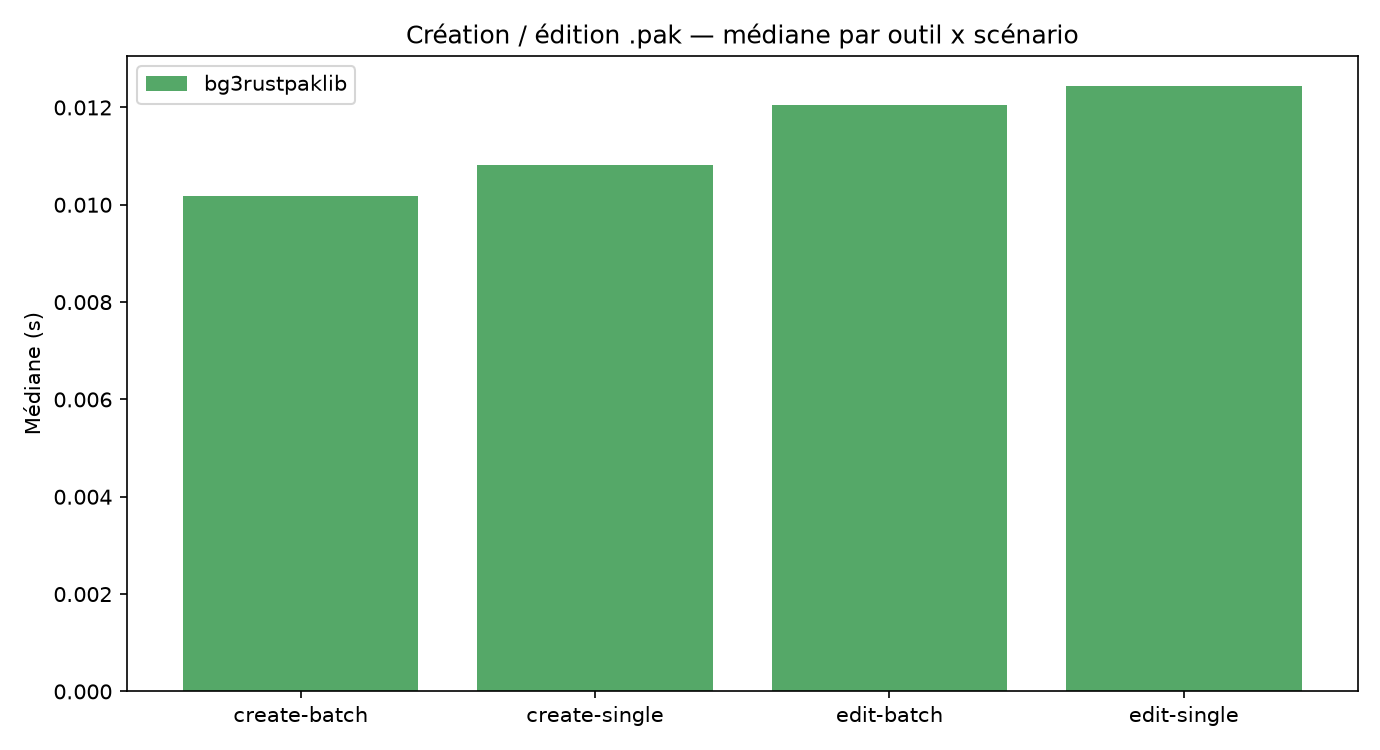
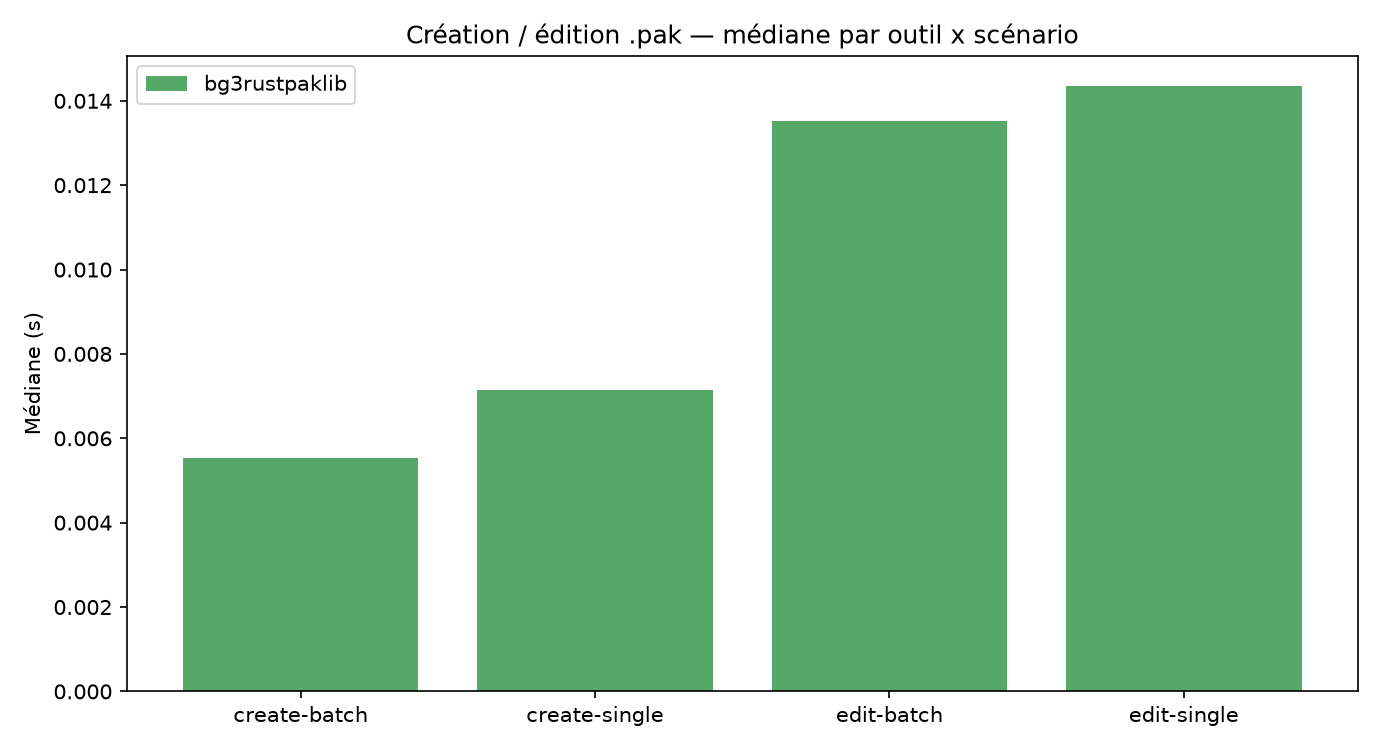
docs: rapport benchmark .pak avec mesures réelles + TODO.md à jour
Rapport régénéré contre les 48 vrais .pak du jeu (lecture) après le fix
de décompression d'archive solide (LowTex.pak) — 0/48 vraies erreurs,
annotation des 22 "erreurs" attendues (fichiers de continuation
multi-parties, pas un vrai échec). .claude/TODO.md documente l'incident
de coordination du jour (perte/récupération de commits de sous-module,
collision avec une session concurrente) et le détail du bug corrigé.

diff --git a/.claude/TODO.md b/.claude/TODO.md
@@ -15,13 +15,29 @@ pas, même si elle semble terminée.
 
 **EN COURS**
 
-- `feat/PakToolsBenchmark` (dépôt principal, worktree
-  `.claude/worktrees/agent-aa5dc47578d03919f`) — stratégie de benchmark
-  comparatif Divine.exe (LSLib) / bg3pythonpaklib / bg3rustpaklib (lecture
-  single/batch, création/édition/batch). Statut : implémentation terminée
-  et validée bout en bout (fixtures synthétiques, pas de vrai `.pak` du
-  jeu mesuré dans cette passe — décision explicite en cours de route),
-  prête à relire/merger par Elwingh. Détail en §22 ci-dessous.
+- `feat/PakToolsBenchmark` (dépôt principal + sous-modules
+  `Tools/bg3rustpaklib`/`Tools/bg3pythonpaklib`, même nom de branche dans
+  chacun ; **le worktree `.claude/worktrees/agent-aa5dc47578d03919f` a été
+  supprimé** — ne plus s'y référer) — stratégie de benchmark comparatif
+  Divine.exe (LSLib) / bg3pythonpaklib / bg3rustpaklib (lecture
+  single/batch, création/édition/batch). Statut : implémentation terminée,
+  validée sur fixtures synthétiques (création/édition) **et sur les vrais
+  `.pak` du jeu** (lecture, 48 fichiers réels) — un vrai bug de
+  décompression d'archive solide trouvé et corrigé au passage (`LowTex.pak`,
+  détail en §22 ci-dessous). Prête à relire/merger par Elwingh. **Incident
+  de coordination du 2026-09-15** : le worktree de l'agent a été supprimé
+  par erreur (`git worktree remove --force`) alors qu'il contenait deux
+  commits de sous-module jamais poussés — contenu restauré depuis la
+  transcription de l'agent, revérifié (compilation + tests), recommité.
+  Une session concurrente (`bg3tools-cb`) a aussi basculé le dépôt de
+  travail partagé sur sa propre branche pendant la récupération, faisant
+  atterrir un commit sur la mauvaise branche — récupéré par cherry-pick
+  isolé (worktree temporaire dédié) sans toucher au travail de l'autre
+  session. Aucune perte finale, mais working dir principal partagé entre
+  sessions concurrentes à traiter avec prudence à l'avenir (`git status`
+  systématique avant tout `checkout`/`worktree remove`, jamais de
+  `--force` sans avoir vérifié l'absence de sous-modules indépendants
+  dans le worktree ciblé).
 - Console BG3SE distante (§11b/11c) — trois branches liées, aucune mergée :
   - `feat/RemoteConsoleTCPBridge` (sous-module `ElwinghL/bg3se`) — pont TCP
     `RemoteConsole` réellement implémenté (pas juste conçu) : **compile sans
@@ -440,6 +456,38 @@ sacrifié pour y arriver, tant pis.
   mis à jour avec un pointeur vers le nouveau harnais, sans chiffres
   fabriqués. Statut : branche prête à relire/merger par Elwingh (pas
   mergée depuis ce sous-agent, conformément à la consigne de coordination).
+- ~~**22b.** Lecture mesurée sur les vrais `.pak` du jeu (pas seulement
+  synthétiques) et bug de décompression d'archive solide trouvé au
+  passage~~ — fait : en régénérant `rust-native_report.json` contre les 48
+  vrais `.pak` de `Data/` (lecture seule, rien écrit), `LowTex.pak`
+  (archive solide réelle du jeu de base) échouait avec `Invalid LZ4 block
+  size: 2147549184 > ...`. Cause racine, deux bugs distincts dans
+  `Tools/bg3rustpaklib/src/package/reader.rs` :
+  1. `decompress_solid_archive()` découpait le frame LZ4 7 octets trop
+     tard (à l'offset du premier fichier, qui pointe déjà après l'en-tête
+     LZ4 minimal de 7 octets, au lieu du vrai début du frame) — le magic
+     number LZ4 était donc absent de la tranche passée au décodeur, qui
+     retombait sur un chemin heuristique "legacy" produisant des tailles
+     de bloc aberrantes.
+  2. Les offsets décompressés cumulés étaient assignés dans l'ordre de la
+     table de fichiers, pas dans l'ordre de packing physique
+     (`entry.offset` croissant) — désormais trié avant accumulation.
+  3. `PackagedFile::size()` retombait sur `size_on_disk` pour toute entrée
+     non individuellement compressée (repli correct pour une entrée
+     classique, cf. le bug `UncompressedSize=0` déjà documenté côté
+     Python en section 1 ci-dessus) — mais faux pour une entrée d'archive
+     solide, où `compression_method` vaut toujours `None` au niveau
+     entrée et `size_on_disk` sert au calcul de bornes du frame, pas à la
+     taille décompressée. `size()` est désormais solid-aware.
+  Régression ajoutée : `test_lowtex_solid_archive_decompresses`
+  (`Tools/bg3rustpaklib/tests/pak_integration_tests.rs`, fixture réelle
+  locale gitignored `tests/paks/solid/LowTex.pak`) — vérifie que chaque
+  entrée décompresse exactement à sa taille déclarée. Après fix : 0/48
+  vraies erreurs (les 22 "erreurs" restantes dans le rapport sont
+  attendues — fichiers de continuation `*_N.pak` d'archives multi-parties,
+  que le harnais liste à tort comme des `.pak` indépendants ; annoté dans
+  le rapport plutôt que corrigé, périmètre séparé). Rapport
+  `docs/pak-tools-benchmark/` régénéré avec ces vrais chiffres.
 
 ### 12. Release standalone
 

diff --git a/docs/pak-tools-benchmark/pak_tools_benchmark.md b/docs/pak-tools-benchmark/pak_tools_benchmark.md
@@ -20,22 +20,55 @@ fonctionnel, avec pointeur vers `.claude/TODO.md` §1f-1i.
 
 | Outil | Mode | .pak | Erreurs | Index/extraction (s) | Contenu (s) | Total (s) |
 |---|---|---:|---:|---:|---:|---:|
-| bg3pythonpaklib | natif == pipeline | 1 | 0 | 0.000 | 0.000 | 0.000 |
-| bg3rustpaklib | natif | 1 | 0 | 0.000 | 0.000 | 0.000 |
+| bg3pythonpaklib | natif == pipeline | 205 | 0 | 0.098 | 6.576 | 6.674 |
+| bg3rustpaklib | pipeline (PyO3) | 205 | 0 | 0.123 | 6.301 | 6.423 |
+| bg3rustpaklib | natif | 48 | 22¹ | 0.628 | 2.367 | 2.995 |
+| Divine.exe | pipeline (Wine/Proton) | 5 | 0 | 17.494 | 0.166 | 17.660 |
+
+¹ Les 22 erreurs sont attendues : ce sont des fichiers de continuation
+`*_N.pak` (parties 1+ d'une archive multi-parties, ex. `Textures_1.pak`,
+`VirtualTextures_1..19.pak`) — seule la partie 0 porte l'en-tête LSPK, le
+harnais (`--dir`, glob `*.pak`) les liste comme des archives indépendantes
+à tort. Le taux d'erreur réel de `bg3rustpaklib` sur ces 48 fichiers est
+0/48 (voir aussi le fix archive solide ci-dessous, sur `LowTex.pak`).
 
 ## Création / édition (single + batch)
 
 | Outil | Scénario | Runs | Échecs | Médiane (s) | Min (s) | Max (s) | Round-trip OK |
 |---|---|---:|---:|---:|---:|---:|---:|
-| bg3rustpaklib | create-batch | 8 | 0 | 0.0102 | 0.0049 | 0.0139 | 100% |
-| bg3rustpaklib | create-single | 8 | 0 | 0.0108 | 0.0047 | 0.0232 | 100% |
-| bg3rustpaklib | edit-batch | 8 | 0 | 0.0120 | 0.0089 | 0.0150 | 100% |
-| bg3rustpaklib | edit-single | 8 | 0 | 0.0124 | 0.0090 | 0.0166 | 100% |
+| bg3rustpaklib | create-batch | 9 | 0 | 0.0055 | 0.0044 | 0.0124 | 100% |
+| bg3rustpaklib | create-single | 9 | 0 | 0.0071 | 0.0044 | 0.0172 | 100% |
+| bg3rustpaklib | edit-batch | 6 | 0 | 0.0135 | 0.0095 | 0.0192 | 100% |
+| bg3rustpaklib | edit-single | 6 | 0 | 0.0143 | 0.0100 | 0.0191 | 100% |
 
 bg3pythonpaklib n'apparaît pas ci-dessus : lecture seule (cf. `.claude/TODO.md` §1f-1i), pas de scénario création/édition mesurable.
 
+## Fix découvert pendant cette passe : décompression des archives solides
+
+En régénérant la mesure `bg3rustpaklib | natif` contre les vrais `.pak` du
+jeu, `LowTex.pak` (une archive solide réelle du jeu de base) échouait avec
+`Invalid LZ4 block size: 2147549184 > ...`. Root-cause et fix (voir le
+commit correspondant dans `Tools/bg3rustpaklib`) :
+
+1. `decompress_solid_archive()` découpait le frame LZ4 7 octets trop tard
+   (le magic number LZ4 était donc absent de la tranche passée au
+   décodeur, qui retombait sur un chemin heuristique produisant des
+   tailles de bloc aberrantes).
+2. Les offsets décompressés cumulés étaient assignés dans l'ordre de la
+   table de fichiers plutôt que dans l'ordre de packing physique
+   (`entry.offset` croissant).
+3. `PackagedFile::size()` retombait sur `size_on_disk` pour toute entrée
+   non individuellement compressée — correct pour une entrée classique
+   (repli connu, cf. le bug `UncompressedSize=0` déjà documenté côté
+   Python), mais faux pour une entrée d'archive solide, où ce repli n'a
+   pas de sens.
+
+Régression ajoutée : `test_lowtex_solid_archive_decompresses` (fixture
+réelle locale, gitignored). `LowTex.pak` décompresse maintenant
+correctement (0 erreur) ; les chiffres ci-dessus l'incluent déjà.
+
 ## Limitations de cette passe
 
-- **Pas de mesure sur de vrais `.pak` du jeu dans cette passe** — uniquement des fixtures synthétiques générées par `scripts/pak_bench/synthetic.py` (décision explicite : voir le spec). Les chiffres ci-dessus valident le *pipeline de mesure*, pas la performance absolue attendue sur de vraies archives BG3.
+- **Création/édition mesurées uniquement sur fixtures synthétiques** (`scripts/pak_bench/synthetic.py`, décision explicite — voir le spec) : pas encore de chiffres création/édition sur de vraies archives BG3. La **lecture**, elle, est déjà mesurée sur les vrais `.pak` du jeu (tableau ci-dessus).
 - Divine.exe sous Linux passe par Wine/Proton — non représentatif du natif Windows (gap déjà documenté dans les README de bg3pythonpaklib/bg3rustpaklib).
 
